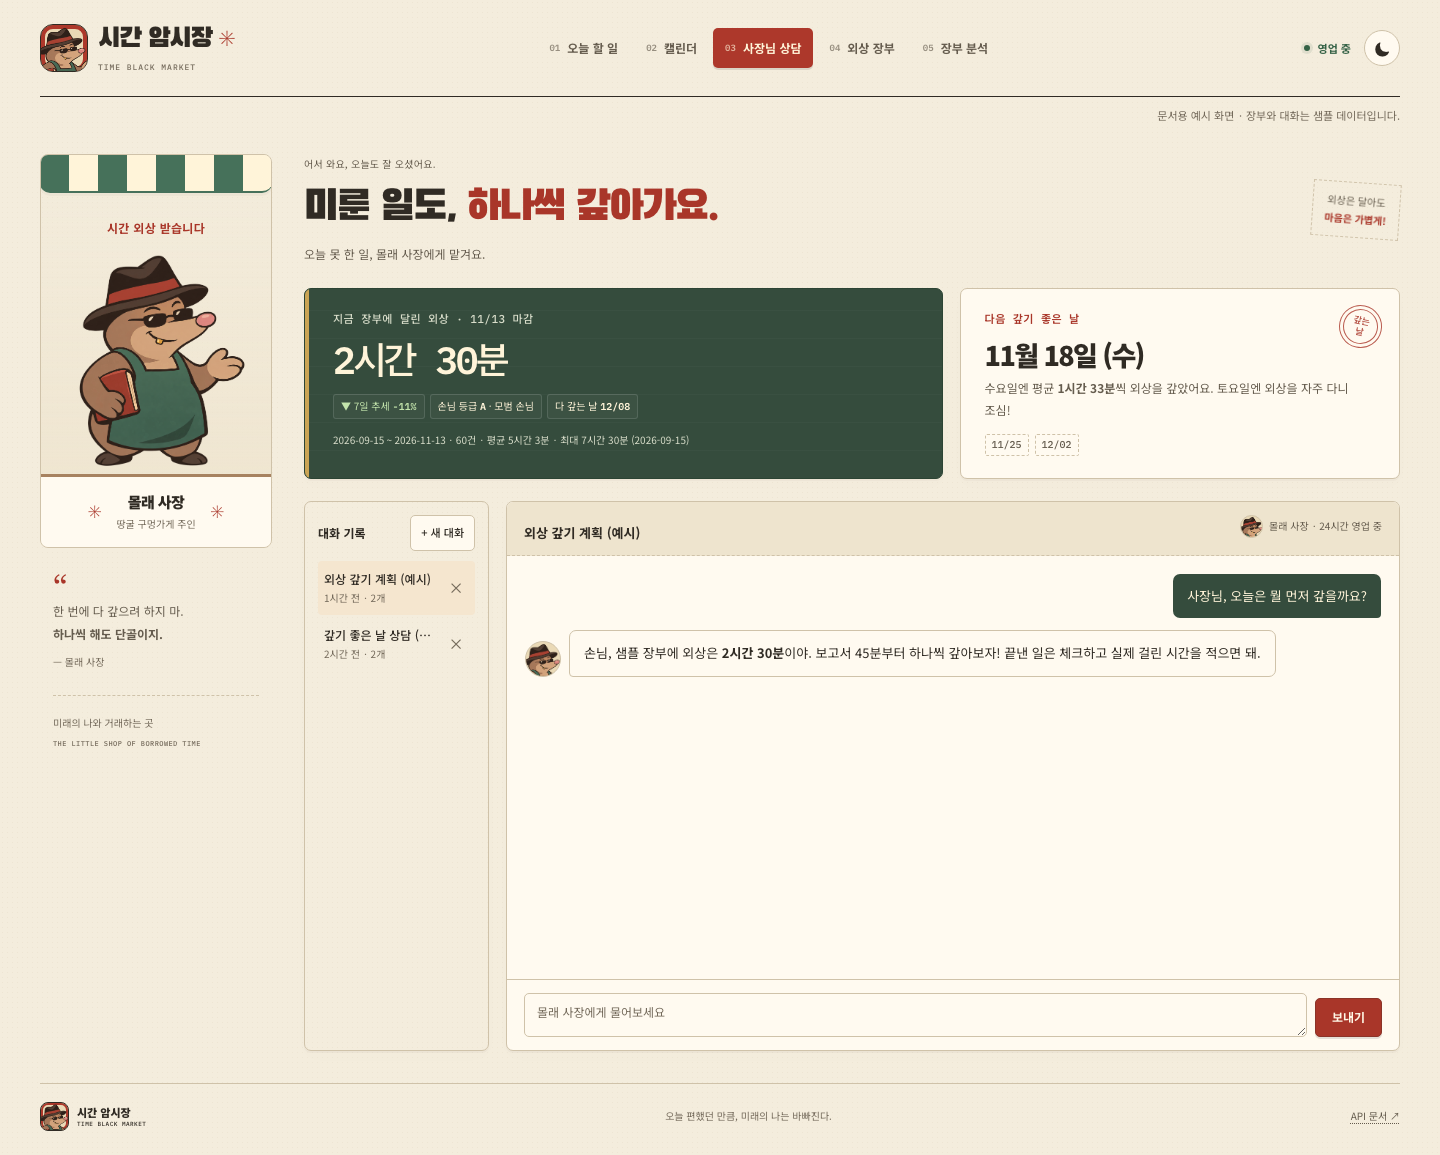
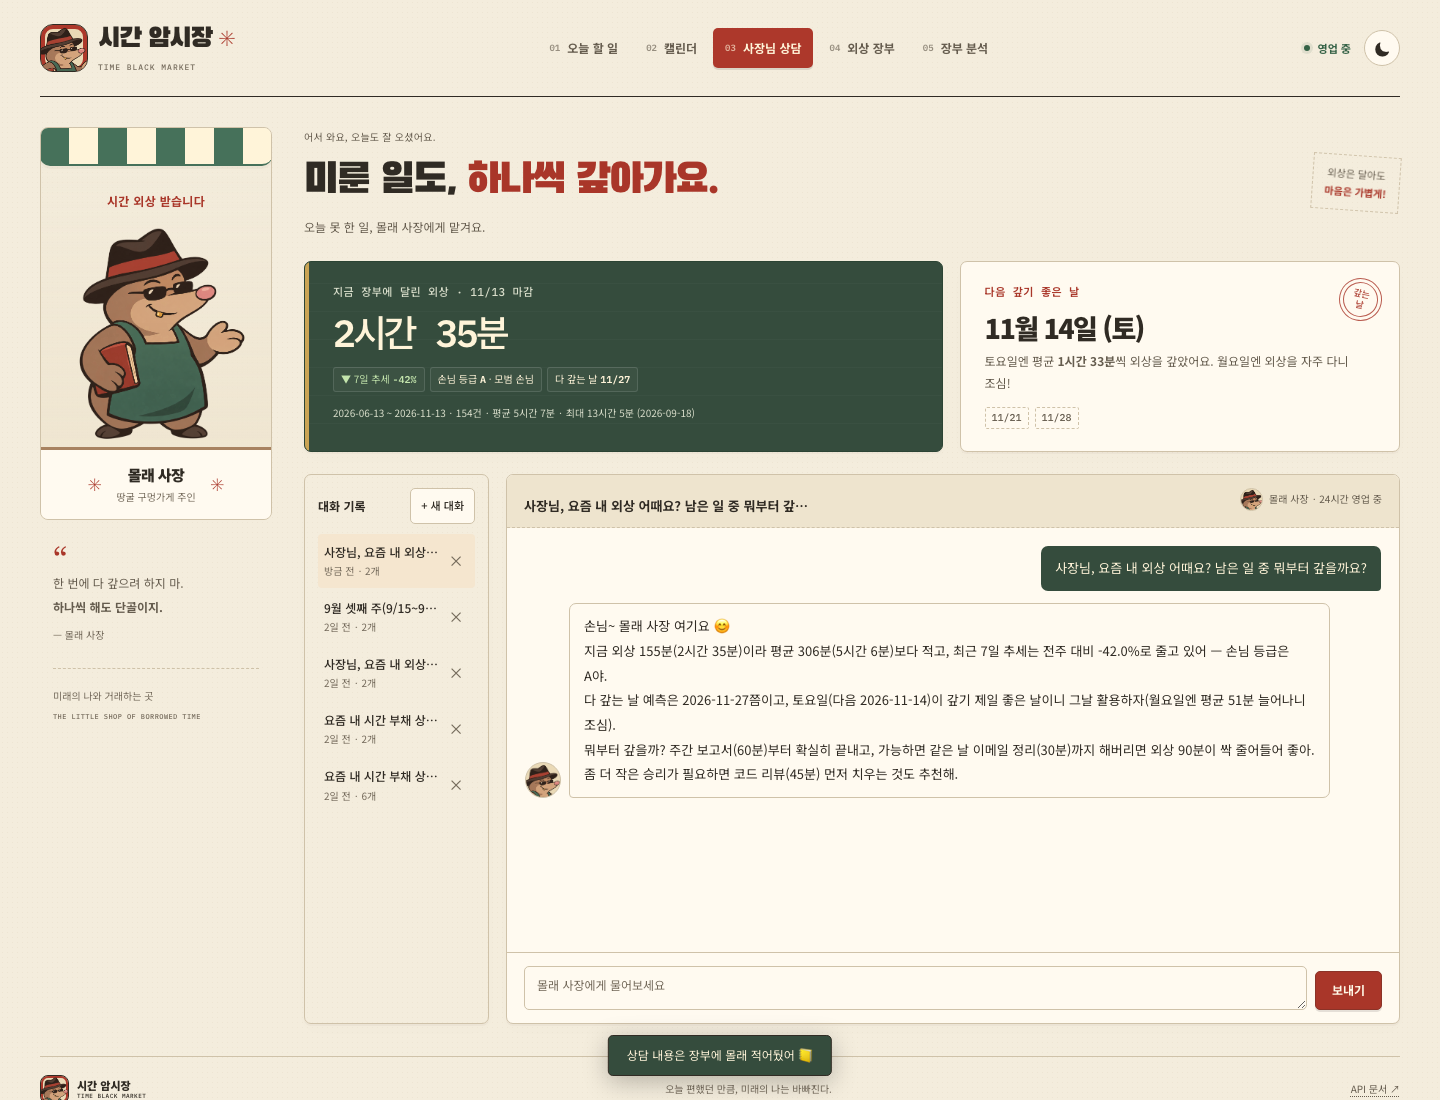
docs: replace mock screenshots with real captures from the deployed site
Chat (live question + real AI reply with summary), ledger edit (PUT success),
and conversation load (with tool-call badge) were captured by driving production.

diff --git a/README.md b/README.md
@@ -26,7 +26,7 @@
 **어떻게 쓰나요?**
 
 1. 오늘 할 일을 적으면 몰래 사장(AI)이 걸릴 시간을 **빠르게 / 보통 / 넉넉히**로 감정해 줍니다. 과거의 "예상 vs 실제" 기록을 반영해 점점 정확해집니다.
-2. 고른 시간만큼 장부에 **외상**이 달립니다. 남은 일의 합계가 곧 **오늘의 시간 외상**이고, 하루 1건으로 자동 기록됩니다.
+2. 고른 시간만큼 장부에 **외상**이 달립니다. 남은 일의 합계가 곧 **오늘의 시간 외상**이고, 하루 1건으로 자동 기록됩니다. 며칠 만에 열어도 남은 일만큼 외상이 매일 이어지도록 빈 날을 자동으로 채웁니다.
 3. 끝낸 일은 체크하고 실제 걸린 시간을 적으면 외상을 **갚은** 것으로 지워집니다.
 4. 쌓인 장부로 추세, **갚기 좋은 날**(요일), **다 갚는 날** 예측, **손님 등급**을 계산하고, 몰래 사장에게 상담할 수 있습니다.
 
@@ -176,6 +176,7 @@ render.yaml               # Render Blueprint
 | POST | `/api/tasks/estimate` | AI 예상 소요 시간 |
 | GET / POST / PUT / DELETE | `/api/tasks`, `/api/tasks/{id}` | 할 일 CRUD → 오늘의 외상 자동 재계산 |
 | POST | `/api/tasks/{id}/complete`, `/reopen` | 완료(실제 시간 기록) / 되돌리기 |
+| POST | `/api/tasks/sync` | 장부 이월: 기록이 빈 날을 할 일 이력으로 채우고 오늘 외상 갱신 (앱 시작 시 호출) |
 
 **Firestore 컬렉션**
 
@@ -331,7 +332,11 @@ sequenceDiagram
 
 ## 스크린샷
 
-배포된 프런트엔드에 샘플 장부와 예시 대화 응답을 주입해 촬영한 UI 화면입니다. 데이터와 대화는 문서용 예시이며 운영 상담 기록을 포함하지 않습니다.
+배포 사이트(https://time-black-market-frontend.vercel.app)를 실제로 조작하며 촬영했습니다. 장부와 할 일은 데모용 샘플 데이터이고, AI 답변은 배포 서버가 실제로 생성한 응답입니다.
+
+- **채팅:** 상단 데이터 요약(지금 외상, 7일 추세, 손님 등급, 갚기 좋은 날)이 보이는 상태에서 질문을 보내고 받은 실제 답변
+- **데이터 관리:** 외상 장부 탭에서 11/9 기록의 메모를 **수정(PUT)** 한 직후. 성공 메시지와 수정된 줄 강조가 보입니다.
+- **대화 기록:** 목록에서 지난 상담을 클릭해 **불러온** 화면. 몰래 사장이 `get_records`를 호출한 🔧 배지가 함께 보입니다.
 
 | 데이터 요약이 보이는 채팅 | 데이터 관리 (CRUD) | 대화 기록 불러오기 |
 |---|---|---|
